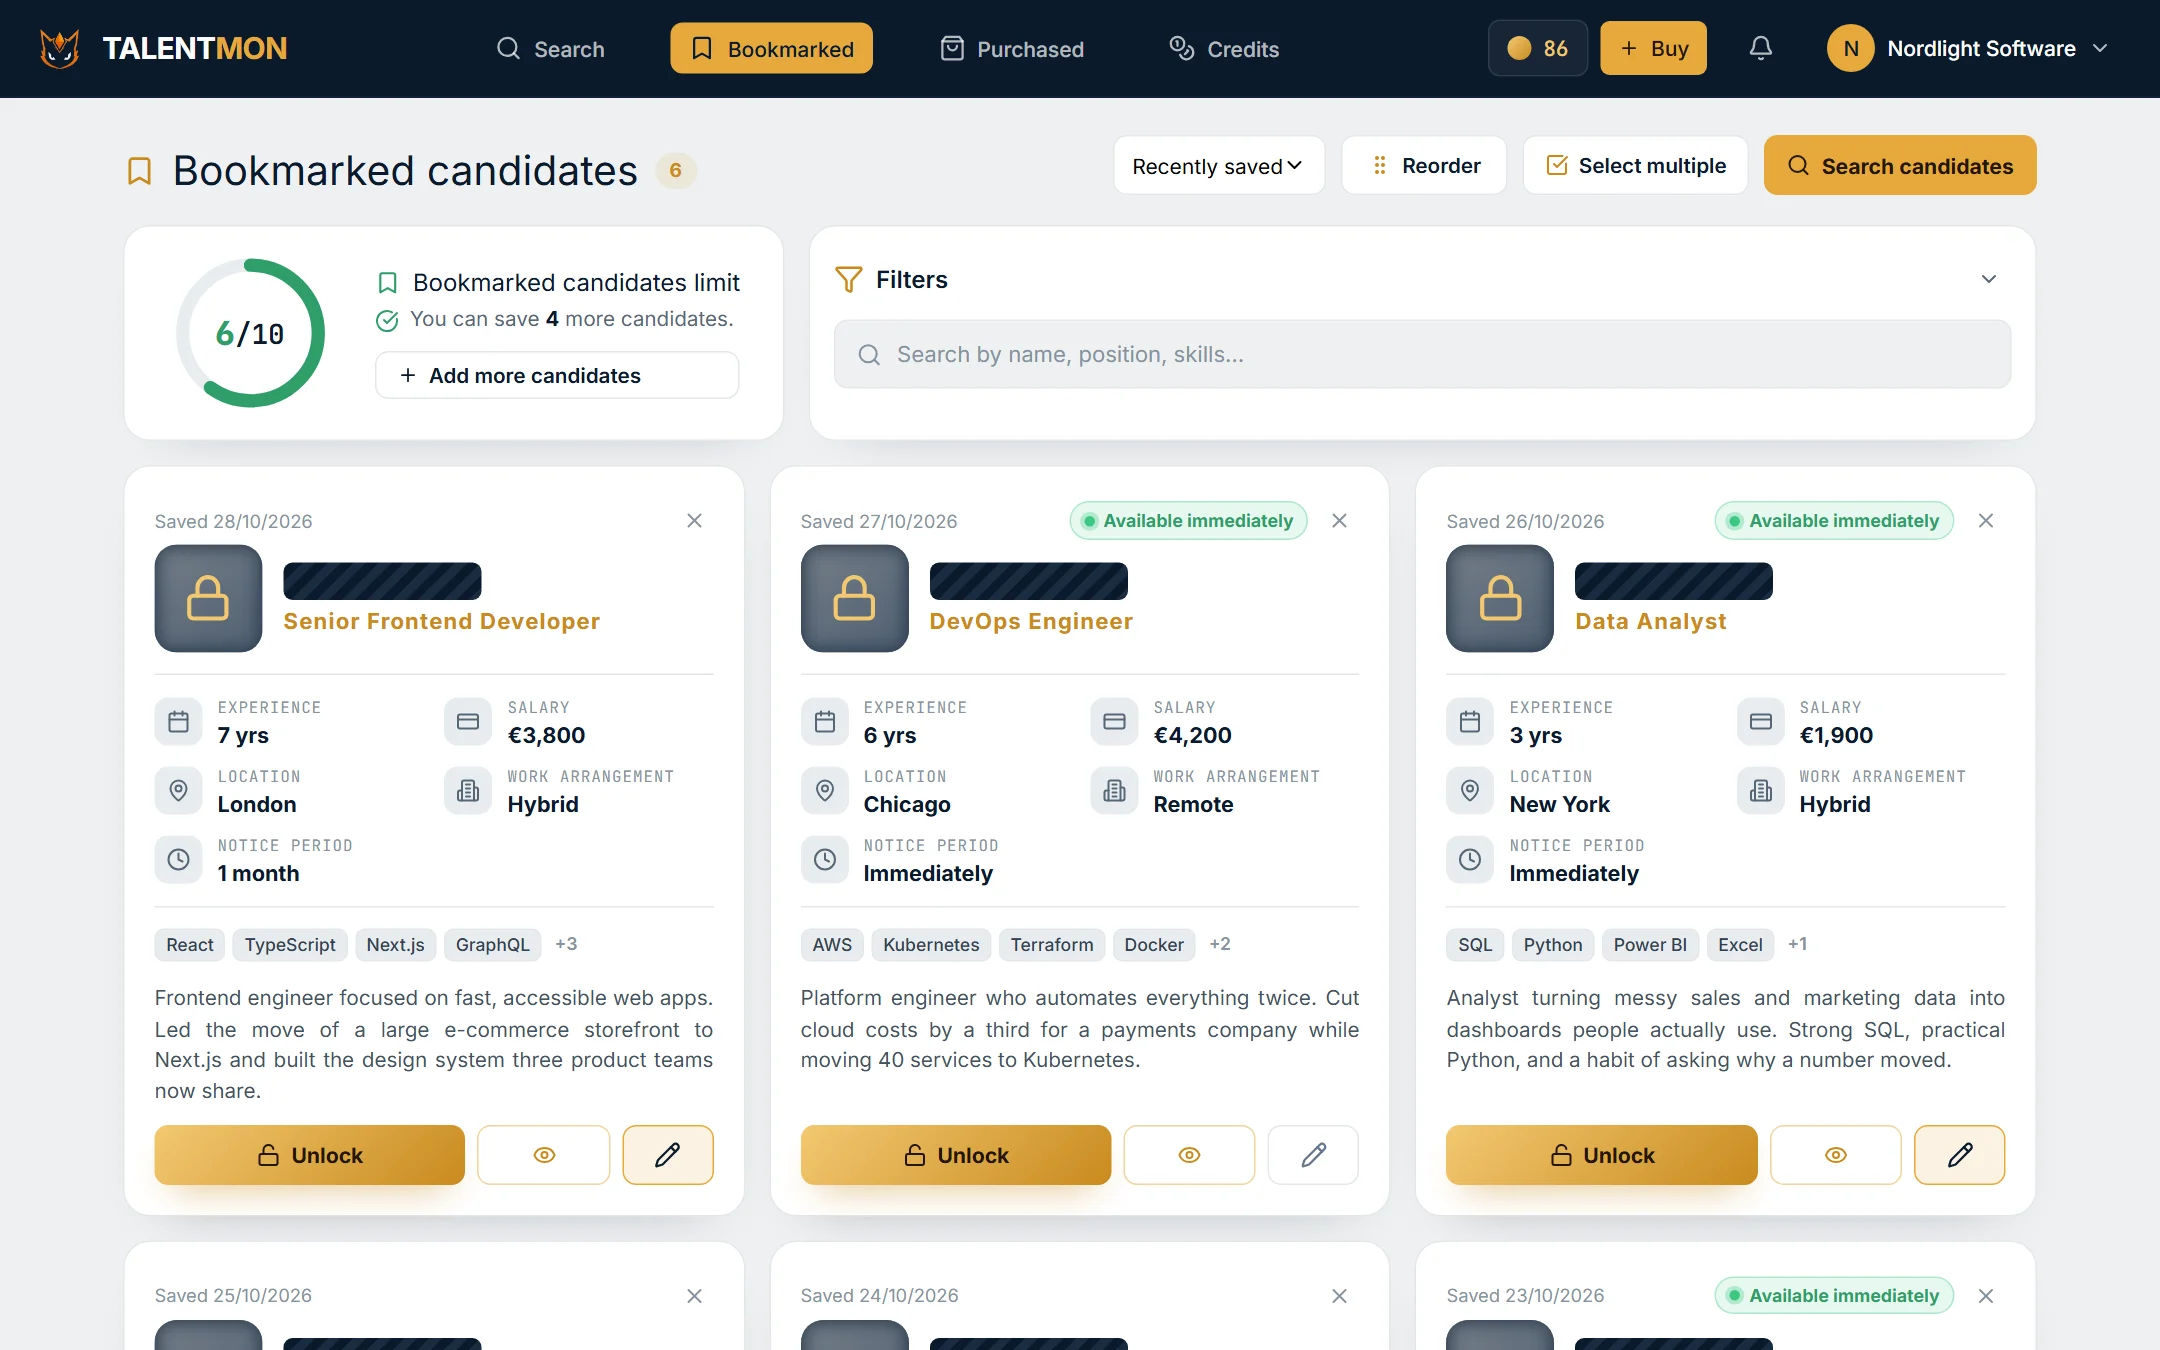
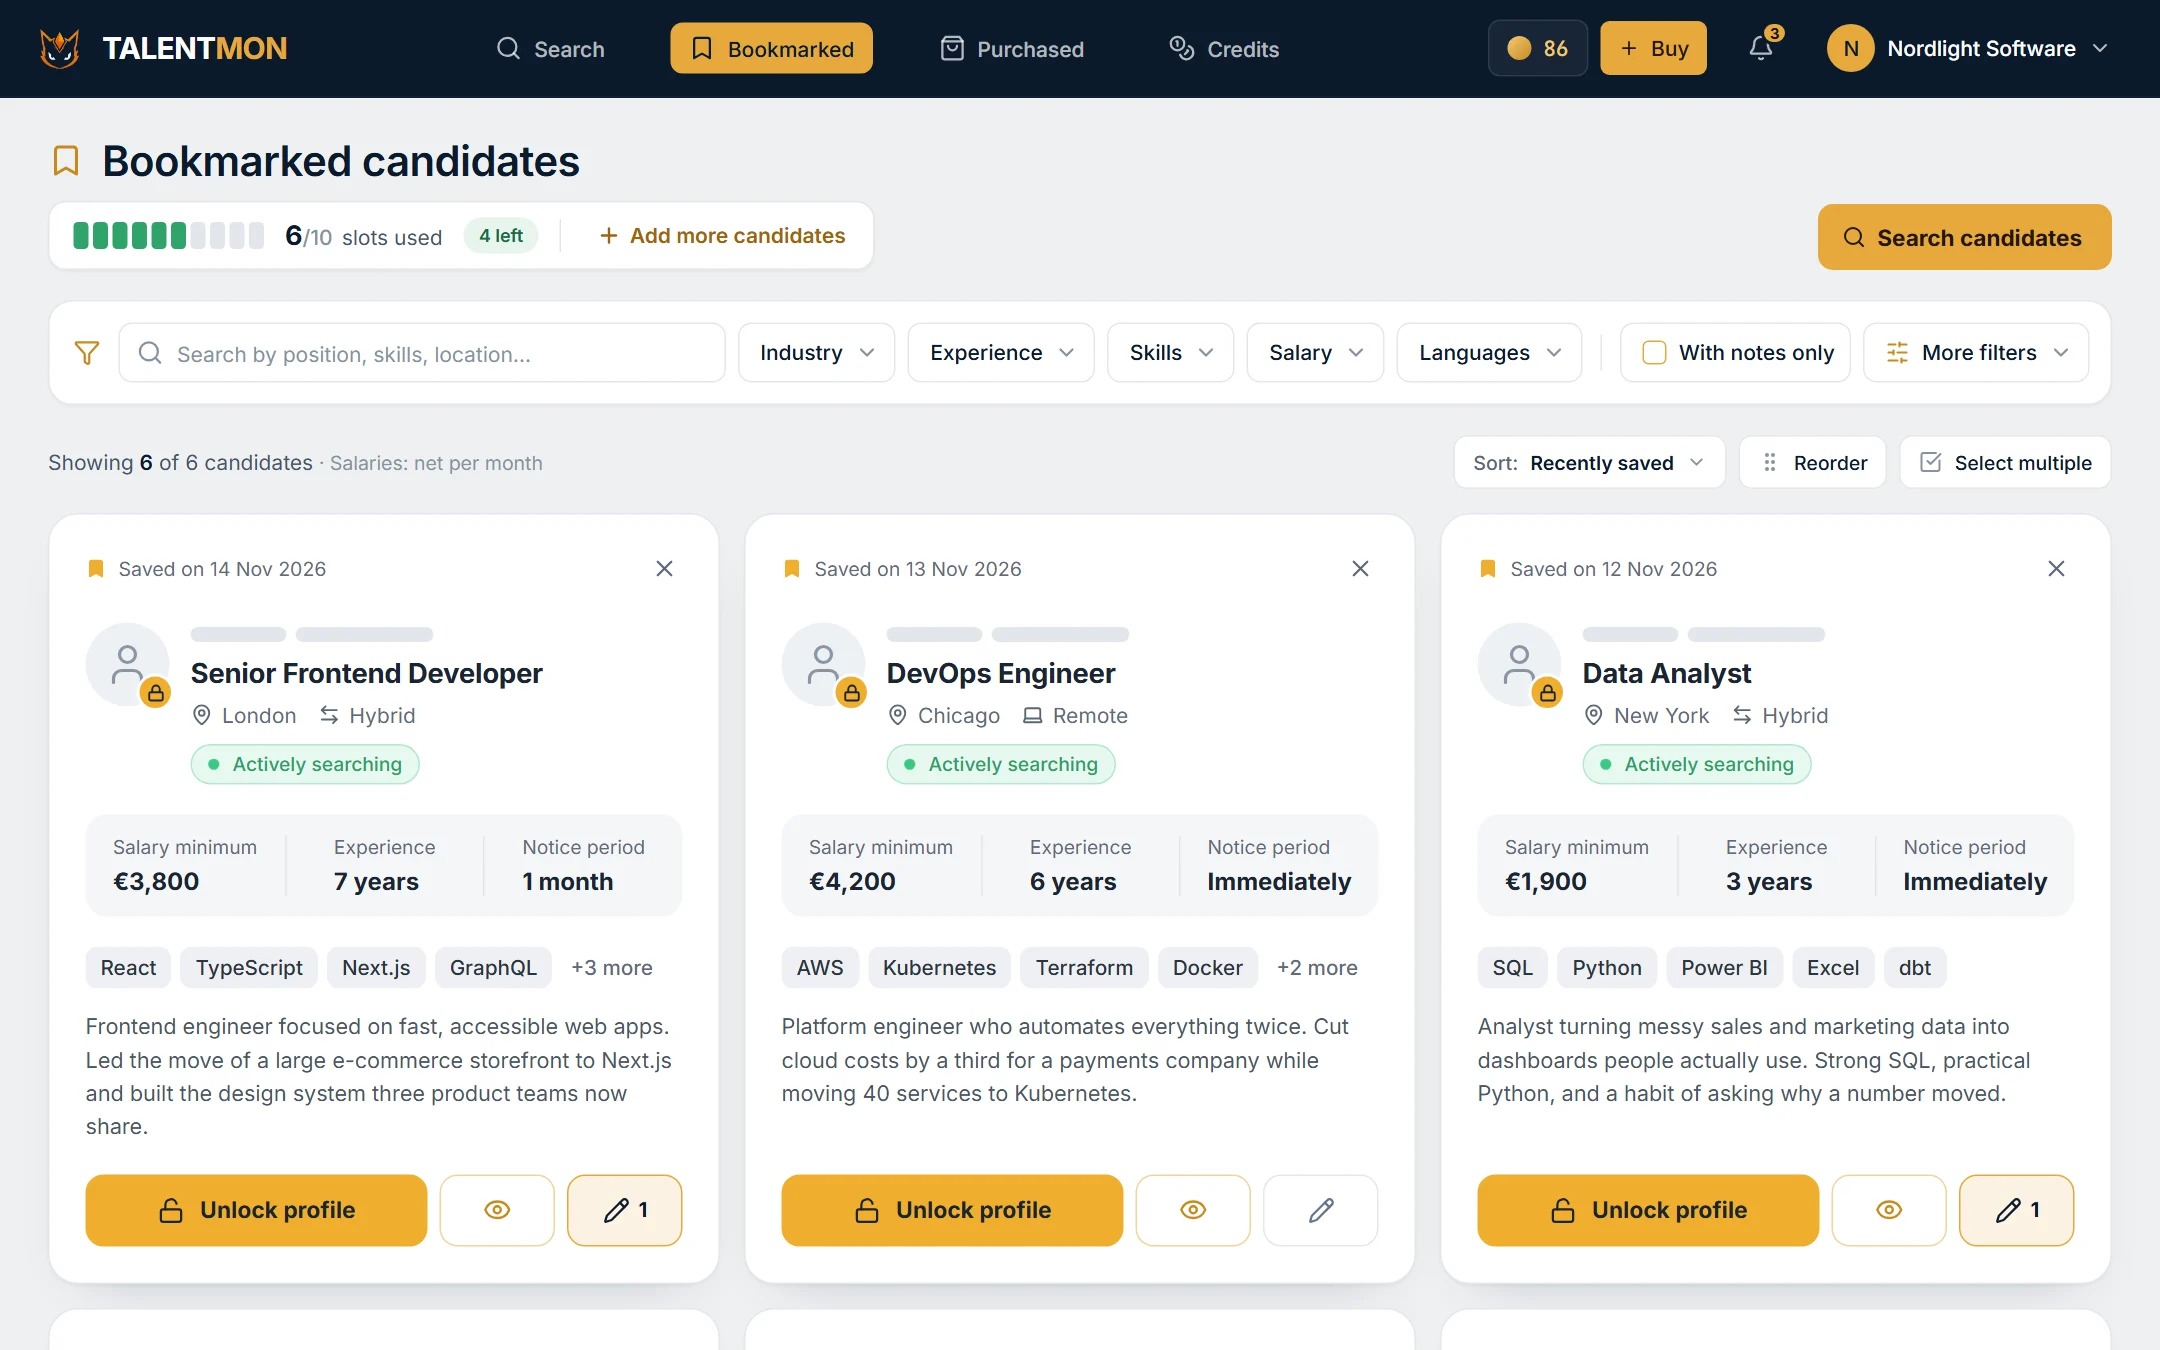
Help: salary view, payment currency and the new settings
- Company profile: Salary view and Payment currency are required fields,
  with what each one does.
- Search: a new "Salaries" part (net or gross, per month or per year,
  the results line, the filter's currency at today's rate). The Salary
  filter and Status & preferences descriptions updated.
- Credits: prices in EUR, charged in the payment currency.
- The salary clause names both amounts and how they're kept with the
  unlock. "Salary minimum" everywhere, "Bookmarked" instead of "Saved",
  "Send invite", the "Reputation" tab.
- Contact: a link to Your suggestions.
- All screenshots redone with net and gross salaries, the new settings
  cards and no match ring (scripts/help-screenshots.mjs).

diff --git a/src/pages/company/help/index.jsx b/src/pages/company/help/index.jsx
@@ -38,17 +38,19 @@ const REQUIRED_FIELDS = [
   'Country',
   'Address',
   'Short description',
+  'Salary view',
+  'Payment currency',
 ];
 
 const FILTER_GROUPS = [
   { name: 'Basic search', text: 'Position and location' },
-  { name: 'Salary', text: 'Range for the candidate’s minimum salary (net per month), in the currency you pick' },
+  { name: 'Salary', text: 'Range for the candidate’s salary minimum: net or gross, per month or per year, typed in the currency you pick' },
   { name: 'Experience & education', text: 'Years of experience and highest education' },
   { name: 'Skills', text: 'Skill categories and specific skills' },
   { name: 'Languages', text: 'Languages, each with a minimum level' },
   { name: 'Industry', text: 'Industry, then subindustry' },
   { name: 'Certifications', text: 'Any certification, or by issuer, family or exact name' },
-  { name: 'Status & preferences', text: 'Actively searching or open to offers, job type, notice period, relocation and business travel' },
+  { name: 'Status & preferences', text: 'Actively searching or open to offers, job type, work mode, notice period, relocation and business travel' },
 ];
 
 const PIPELINE = [
@@ -205,7 +207,7 @@ const CompanyHelp = () => {
           <p className={styles.heroText}>
             You describe the person you're looking for with filters, see only the candidates who match, and contact
             them yourself. Every candidate here has a profile because they're open to new opportunities. Profiles stay
-            anonymous until you unlock them: you see experience, skills, minimum salary and availability, but not
+            anonymous until you unlock them: you see experience, skills, salary minimum and availability, but not
             the name, photo, contact details or employers. When a profile looks right, unlock it for one Credit and
             reach out.
           </p>
@@ -300,6 +302,11 @@ const CompanyHelp = () => {
                   <ul className={styles.bullets}>
                     <li><b>Company email</b> is your login email and is filled in for you.</li>
                     <li><b>Short description</b> has room for 200 characters. Candidates read it first, so make it count.</li>
+                    <li>
+                      <b>Salary view</b> sets how your team sees candidates' salaries: net or gross, per month or per
+                      year, and the currency of the salary filter (see <b>Salaries</b> under Search).
+                    </li>
+                    <li><b>Payment currency</b> is the currency your card is charged in when you buy Credits (see Credits).</li>
                   </ul>
                 </div>
                 <Figure
@@ -355,7 +362,7 @@ const CompanyHelp = () => {
                   { icon: 'Infinity', title: 'Credits never expire', text: 'Buy once and use them whenever you need them.' },
                   { icon: 'Users', title: 'One balance for the team', text: 'Everyone on your team can buy Credits and spends from the same balance. It is always shown in the top bar.' },
                   { icon: 'Bookmark', title: 'Bonus bookmark slots', text: 'Larger packages add extra bookmark slots for 6 months. The bonus is shown on each package.' },
-                  { icon: 'Wallet', title: 'Your currency', text: "Prices include VAT and are shown in your company's billing currency (EUR, USD, GBP or CNY), set under Account settings." },
+                  { icon: 'Wallet', title: 'Prices in EUR', text: "Prices are in euros and include VAT. Your card is charged in your payment currency (Company information → Payments). If that isn't EUR, Paddle converts the price at the day's rate, and the Purchase tab and checkout tell you so. History always shows EUR." },
                   { icon: 'History', title: 'History', text: 'Every purchase and unlock, grouped by day, with totals at the top and Export CSV. With a team, it shows who made each one.' },
                   { icon: 'BarChart3', title: 'Analytics', text: 'Hire rate, cost per hire and time to hire, where your unlocked candidates are now, and what each team member unlocked.' },
                 ]}
@@ -454,6 +461,28 @@ const CompanyHelp = () => {
                 </p>
               </div>
 
+              <div className={styles.subTitle}>Salaries</div>
+              <div className={styles.prose}>
+                <p>
+                  Candidates give their salary minimum both net and gross. Your team sees it the way your company set
+                  under <b>Salary view</b> in Company information, for example net per month, and the line above the
+                  results says which: “Found 24 candidates · Salaries: net per month”. Cards and CVs always show the
+                  amount in the candidate's own currency.
+                </p>
+                <ul className={styles.bullets}>
+                  <li>
+                    Switch between net and gross, or per month and per year, in the <b>Salary</b> filter. The switch
+                    holds on Search, Bookmarked and Purchased until you close the tab or sign out, then your company's
+                    setting applies again.
+                  </li>
+                  <li>
+                    The filter's range is typed in the currency you pick there and compared with each candidate's
+                    salary at today's exchange rate, updated daily.
+                  </li>
+                  <li>Sorting by salary follows the same view.</li>
+                </ul>
+              </div>
+
               <div className={styles.subTitle}>Reading a candidate card</div>
               <div className={`${styles.split} ${styles.splitCard}`}>
                 <Figure
@@ -467,7 +496,7 @@ const CompanyHelp = () => {
                   <div className={styles.seeHide}>
                     <div className={styles.see}>
                       <span className={styles.seeHead}><Icon name="Eye" size={15} />What you see</span>
-                      Status (actively searching or open to offers), position, years of experience, minimum salary,
+                      Status (actively searching or open to offers), position, years of experience, salary minimum,
                       location, work arrangement, notice period, top skills and a short summary.
                     </div>
                     <div className={styles.hide}>
@@ -576,9 +605,12 @@ const CompanyHelp = () => {
                     confirmation shows the price and what your balance will be afterwards.
                   </p>
                   <Callout tone="gold" icon="Scale" title="The salary clause">
-                    By unlocking, you accept that <b>the salary the candidate entered is the minimum you'll offer
-                    them</b>. That's what makes candidates trust the platform, and after a hire they're asked whether it
-                    was honored (see Reputation).
+                    By unlocking, you accept that <b>the salary minimum the candidate entered is the lowest you'll
+                    offer them</b>. The confirmation names both amounts, the one your team sees first, for example
+                    “€1,500 net / month (€2,100 gross / month)”, and they're kept with the unlock even if the candidate
+                    changes their profile later. If net and gross don't match, offering at least the gross amount meets
+                    the clause. That's what makes candidates trust the platform, and after a hire they're asked whether
+                    it was honored (see Reputation).
                   </Callout>
                   <div className={styles.subTitle}>After you unlock</div>
                   <ul className={styles.checks}>
@@ -633,7 +665,7 @@ const CompanyHelp = () => {
                       { icon: 'Mail', title: 'Contact', text: 'Email and phone with a copy button (click to write or call), and a link to their LinkedIn.' },
                       { icon: 'FileText', title: 'Open CV', text: 'The full CV, with Send email and Print. Choose "Save as PDF" in the print dialog to keep a PDF.' },
                       { icon: 'Download', title: 'Download CV', text: 'Saves a copy of the CV to your computer.' },
-                      { icon: 'Pencil', title: 'Notes', text: 'The same notes as on Saved. Each shows who wrote it and when; your whole team sees them and can edit them.' },
+                      { icon: 'Pencil', title: 'Notes', text: 'The same notes as on Bookmarked. Each shows who wrote it and when; your whole team sees them and can edit them.' },
                       { icon: 'Route', title: 'Hire tracking', text: 'The bar at the bottom shows the current status. Open it and click a pill to change it.' },
                       { icon: 'Briefcase', title: 'Hiring for', text: 'The position you\'re considering them for: pick one you already use or type a new one. It fills in the hire form, and the pipeline can show one position at a time.' },
                       { icon: 'Unlock', title: 'Unlocked date', text: 'When the profile was unlocked, and by whom.' },
@@ -709,15 +741,16 @@ const CompanyHelp = () => {
                   <Steps
                     items={[
                       <>Go to <b>Company Profile → Team</b>.</>,
-                      <>Enter your colleague's email and click <b>Send</b>.</>,
+                      <>Enter your colleague's email and click <b>Send invite</b>.</>,
                       <>They get an email with a link to set their name and password. The link is valid for 7 days.</>,
                     ]}
                   />
                   <ul className={styles.bullets}>
                     <li>Each person can belong to only one company.</li>
                     <li>
-                      Only the account owner edits the company profile and billing currency, removes saved cards and
-                      changes the low balance alert, and can hand the account over to a teammate with <b>Make owner</b>.
+                      Only the account owner edits the company profile (including the salary view and payment
+                      currency), removes saved cards and changes the low balance alert, and can hand the account over
+                      to a teammate with <b>Make owner</b>.
                     </li>
                   </ul>
                 </div>
@@ -780,7 +813,7 @@ const CompanyHelp = () => {
                   <span className={styles.repIcon}><Icon name="ShieldCheck" size={18} /></span>
                   <b>The salary rule has teeth</b>
                   <p>
-                    They're asked whether the minimum salary from their profile was honored. If it wasn't, their overall
+                    They're asked whether the salary minimum from their profile was honored. If it wasn't, their overall
                     rating is capped at 3, no matter how perfect everything else was.
                   </p>
                 </div>
@@ -792,7 +825,7 @@ const CompanyHelp = () => {
               </div>
               <div className={styles.split}>
                 <div className={styles.prose}>
-                  <Path>Company Profile → Reputation management</Path>
+                  <Path>Company Profile → Reputation</Path>
                   <p>
                     Here you'll find your overall score, the star breakdown, how many candidates recommend you, and
                     every comment. The same ratings appear on your public company profile, which candidates look at
@@ -805,8 +838,8 @@ const CompanyHelp = () => {
                 </div>
                 <Figure
                   src="/help/reputation.webp"
-                  alt="Reputation management with overall score and ratings"
-                  caption="Your ratings under Reputation management."
+                  alt="Reputation tab with overall score and ratings"
+                  caption="Your ratings on the Reputation tab."
                   onZoom={setZoomed}
                 />
               </div>
@@ -820,6 +853,10 @@ const CompanyHelp = () => {
                 <p>
                   Can't find what you're looking for, or something doesn't work as described? Write to us and we'll get
                   back to you.
+                </p>
+                <p>
+                  Have an idea for Talentmon? Post it on <a href="/suggestions">Your suggestions</a> in the profile
+                  menu, where other companies can vote on it.
                 </p>
                 <div className={styles.legal}>
                   <a href="/terms-of-service" target="_blank" rel="noopener noreferrer">Terms of Service</a>

diff --git a/src/pages/company/help/styles/help.module.scss b/src/pages/company/help/styles/help.module.scss
@@ -1029,6 +1029,13 @@ $two-col-from: 981px;
     font-size: .92rem;
     line-height: 1.6;
     color: rgba(255, 255, 255, .7);
+
+    // "Your suggestions"
+    a {
+      color: $gold-2;
+      font-weight: 600;
+      &:hover { text-decoration: underline; }
+    }
   }
 
   @media (max-width: 680px) { padding: 22px 18px; }
